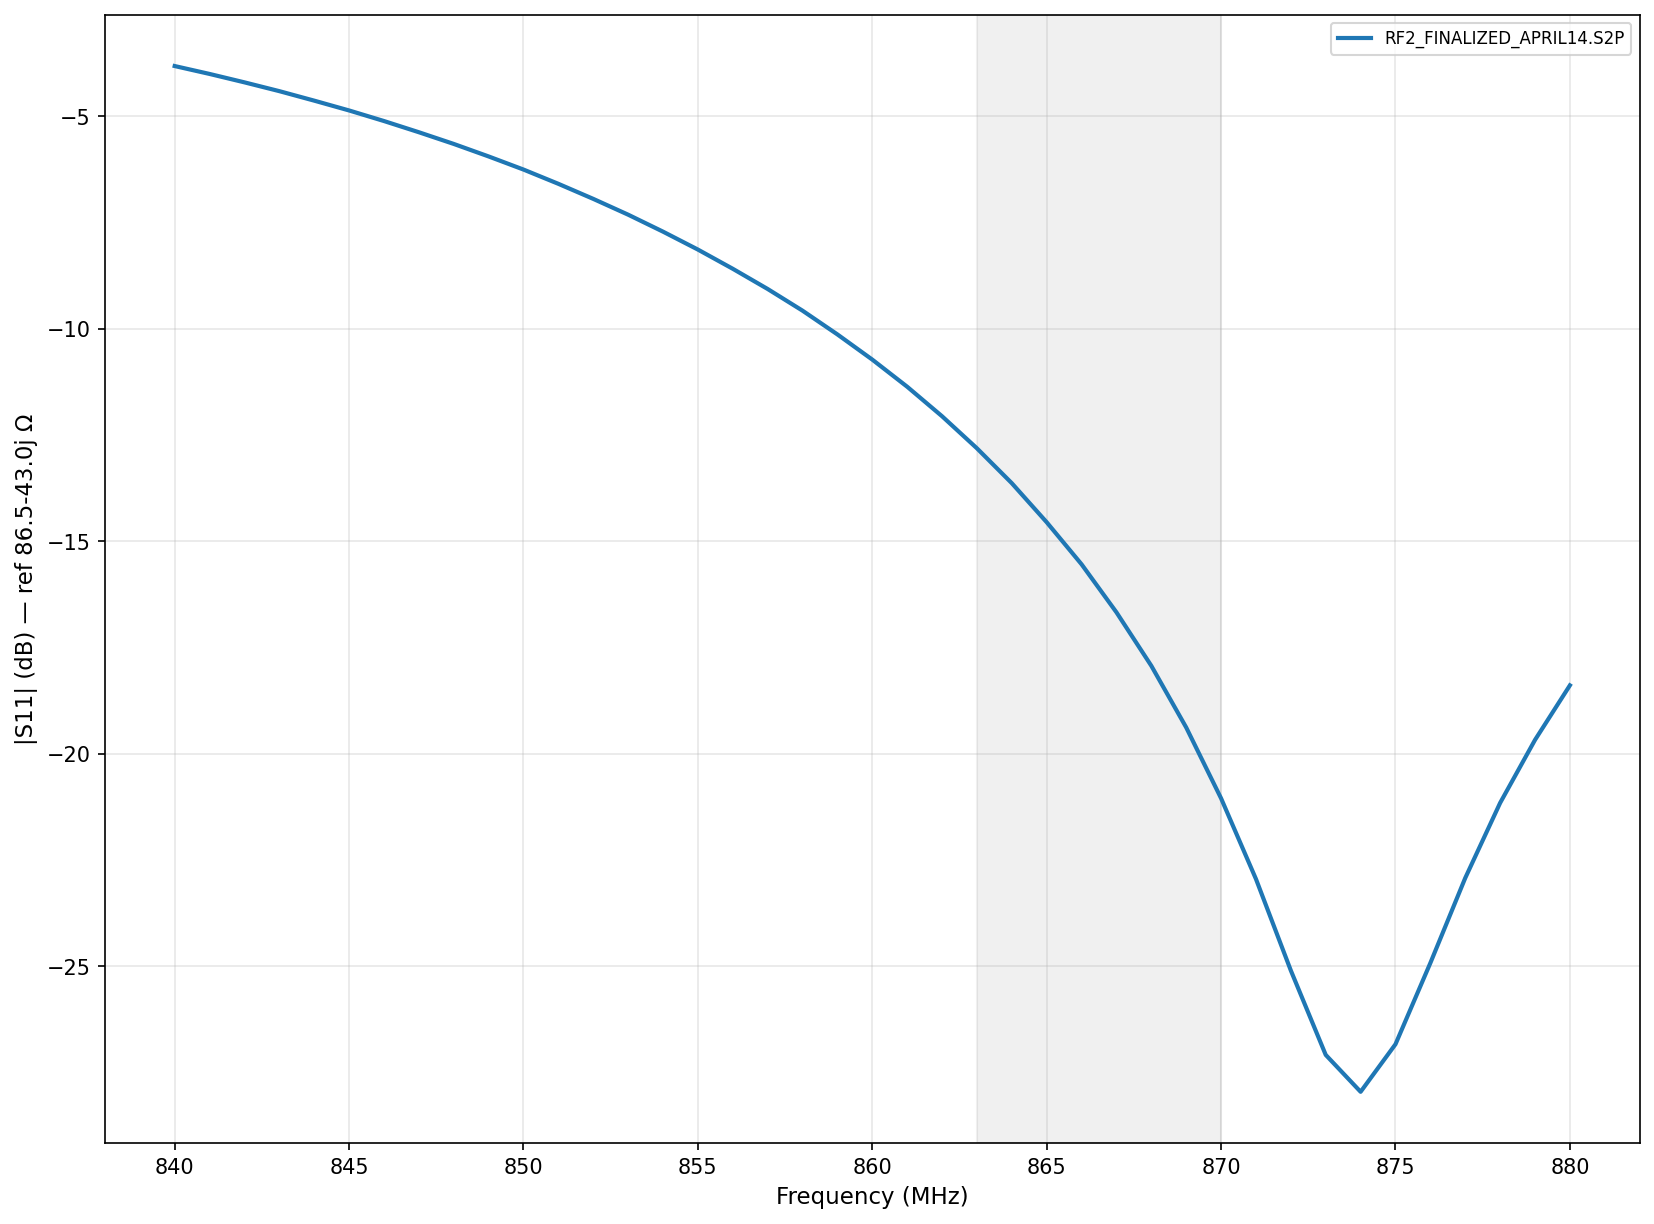
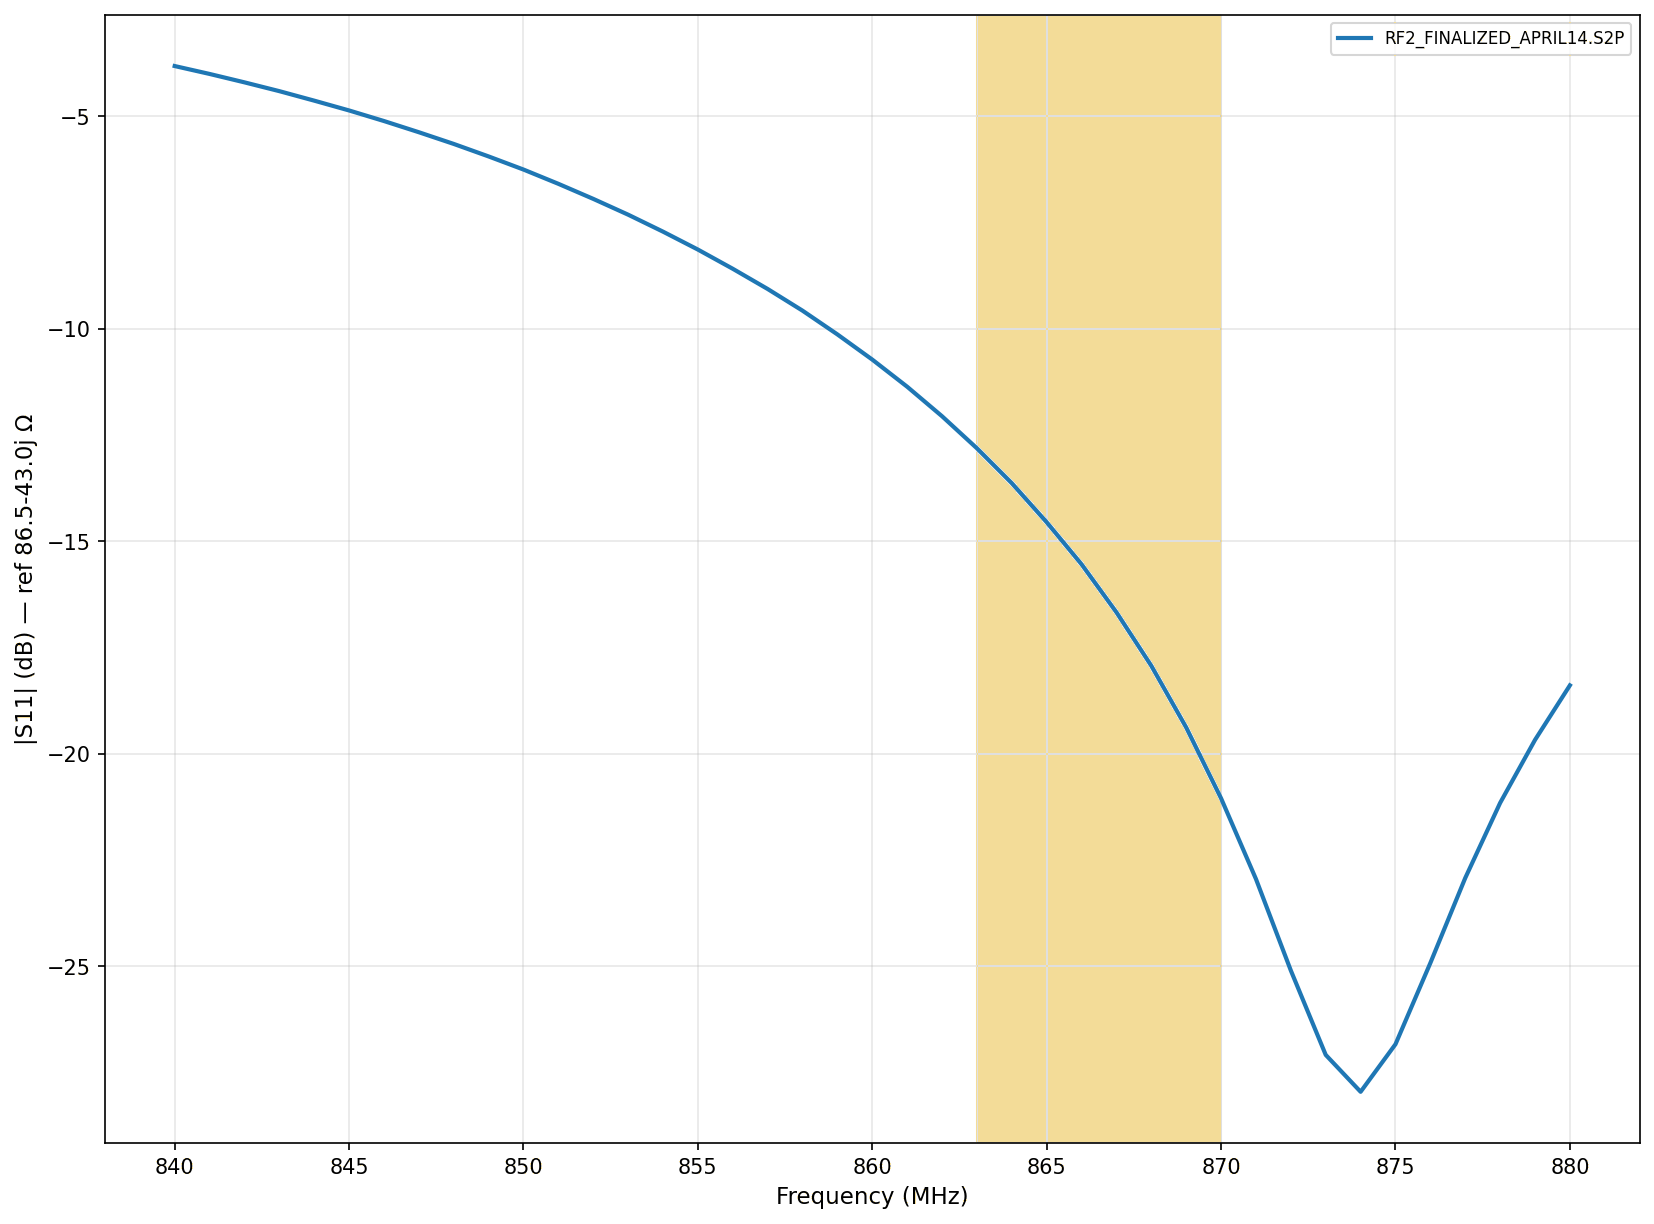
Kickr case study updates

Changed region(s): [[0.5859, 0.0, 0.74, 0.9314]]

diff --git a/case-study-cc1101.html b/case-study-cc1101.html
@@ -23,7 +23,7 @@
   <meta property="og:description" content="Four ISM-band matching networks designed and verified in-case. All bands pass −10 dB. Client: KickR Design." />
   <meta property="og:type" content="article" />
   <meta property="og:url" content="https://www.mariettaresearchsolutions.com/case-study-cc1101.html" />
-  <meta property="og:image" content="https://www.mariettaresearchsolutions.com/images/case-study-cc1101/board.jpeg" />
+  <meta property="og:image" content="https://www.mariettaresearchsolutions.com/images/case-study-cc1101/device-with-cables.jpeg" />
 
   <script async src="https://www.googletagmanager.com/gtag/js?id=G-TFKE4XNDT7"></script>
   <script>
@@ -322,11 +322,12 @@
       </div>
     </div>
     <figure>
-      <img src="images/case-study-cc1101/board.jpeg"
-           alt="The CC1101 test board on a workbench, showing both chip antennas in the corner of the PCB and the matching-network component pads populated with surface-mount inductors and capacitors." />
+      <img src="images/case-study-cc1101/device-with-cables.jpeg"
+           alt="The assembled INTERRUPT handheld with display installed, rubber-banded together, USB charging cable attached, and two RF coax cables connected on the right side for in-case |S11| measurement. The red CC1101 system board is visible through the keypad cutouts on the front." />
       <figcaption>
-        The CC1101 test board. Two chip antennas in the upper corner share a PCB region with the
-        SP4T switch and per-band matching networks; tuning one band measurably affects the others.
+        Production hardware on the bench. The display is installed, the case is closed, and the
+        two chip antennas are connected via coax to the VNA — the only condition under which a
+        production match means anything.
       </figcaption>
     </figure>
   </div>
@@ -402,19 +403,22 @@
     <div class="h2-eyebrow">§2 · Architecture</div>
     <h2 id="architecture">The signal chain &mdash; and why the antennas couple.</h2>
     <div class="csd-arch">
-      <img src="images/case-study-cc1101/board.jpeg"
-           alt="The CC1101 test board, showing both chip antennas in the upper corner of the PCB and the populated matching networks below." />
+      <img src="images/case-study-cc1101/device-open-architecture.jpeg"
+           alt="The handheld opened along its hinge: the red CC1101 system board lies flat on the bench, the back of the LCD display sits in the lifted case half, and two thin coax probes are taped down to the board near the matching-network region for VNA measurement. The chip antennas are visible in the upper corner of the red PCB, adjacent to the back of the display — the source of the antenna detuning the matching networks have to correct." />
       <div>
         <p>
           The CC1101's differential RF port is driven through an
           <strong>Anaren B0310J50100AHF balun</strong> into a <strong>SKY13414-485LF SP4T
           switch</strong>, which selects one of four per-band matching networks. Only one band is
-          active at a time; the switch common port references 50&nbsp;Ω post-balun.
+          active at a time; the switch common port references 50&nbsp;Ω post-balun. The photo
+          shows the board in its production case with the display lifted on its hinge and two
+          coax probes taped to the matching-network test points.
         </p>
         <p>
-          Both antennas sit in the same corner of the PCB, which measurably <em>couples</em> them:
-          tuning one band shifts the response of another. That coupling drove the retune order
-          described in the next section.
+          Both antennas sit in the same corner of the PCB, directly adjacent to the back of the
+          display — which measurably <em>couples</em> them and <em>detunes</em> them: tuning one
+          band shifts the response of another, and any match measured with the display removed is
+          a lie. That coupling drove the retune order described in the next section.
         </p>
       </div>
     </div>
@@ -471,8 +475,8 @@
       <div class="csd-band-grid">
         <div>
           <img src="images/case-study-cc1101/rf3-chart-b.png"
-               alt="|S11| versus frequency for the 315 MHz band. The curve dips below −14 dB inside the gray band indicating the required 314–316 MHz range." />
-          <div class="chart-cap">Final |S₁₁| measurement — gray band indicates the required frequency range.</div>
+               alt="|S11| versus frequency for the 315 MHz band. The curve dips below −14 dB inside the gold band indicating the required 314–316 MHz range." />
+          <div class="chart-cap">Final |S₁₁| measurement — gold band indicates the required frequency range.</div>
         </div>
         <div>
           <dl>
@@ -503,7 +507,7 @@
         <div>
           <img src="images/case-study-cc1101/rf4-chart-b.png"
                alt="|S11| versus frequency for the 433 MHz band, showing a minimum of −13.3 dB across the required range." />
-          <div class="chart-cap">Final |S₁₁| measurement — gray band indicates the required frequency range.</div>
+          <div class="chart-cap">Final |S₁₁| measurement — gold band indicates the required frequency range.</div>
         </div>
         <div>
           <dl>
@@ -534,7 +538,7 @@
         <div>
           <img src="images/case-study-cc1101/rf2-chart-b.png"
                alt="|S11| versus frequency for the 868 MHz band, showing −15 dB or better across the required range." />
-          <div class="chart-cap">Final |S₁₁| measurement — gray band indicates the required frequency range.</div>
+          <div class="chart-cap">Final |S₁₁| measurement — gold band indicates the required frequency range.</div>
         </div>
         <div>
           <dl>
@@ -565,7 +569,7 @@
         <div>
           <img src="images/case-study-cc1101/rf1-chart-b.png"
                alt="|S11| versus frequency for the 915 MHz band, showing −17 dB at 911 MHz across the 26 MHz required range." />
-          <div class="chart-cap">Final |S₁₁| measurement — gray band indicates the required frequency range.</div>
+          <div class="chart-cap">Final |S₁₁| measurement — gold band indicates the required frequency range.</div>
         </div>
         <div>
           <dl>

diff --git a/index.html b/index.html
@@ -303,7 +303,7 @@
 
   <article class="cs-card" style="margin-top:1.25rem;">
     <a class="cs-thumb" href="case-study-cc1101.html"
-       style="background-image:url('images/case-study-cc1101/board.jpeg');"
+       style="background-image:url('images/case-study-cc1101/device-with-cables.jpeg');"
        aria-label="Read the CC1101 case study">
       <div class="cs-thumb-tag">Featured · Worked Example</div>
     </a>

diff --git a/case-studies.html b/case-studies.html
@@ -75,7 +75,7 @@
 
     <article class="cs-card">
       <a class="cs-thumb" href="case-study-cc1101.html"
-         style="background-image:url('images/case-study-cc1101/board.jpeg');"
+         style="background-image:url('images/case-study-cc1101/device-with-cables.jpeg');"
          aria-label="Read the CC1101 case study">
         <div class="cs-thumb-tag">Featured · Worked Example</div>
       </a>
